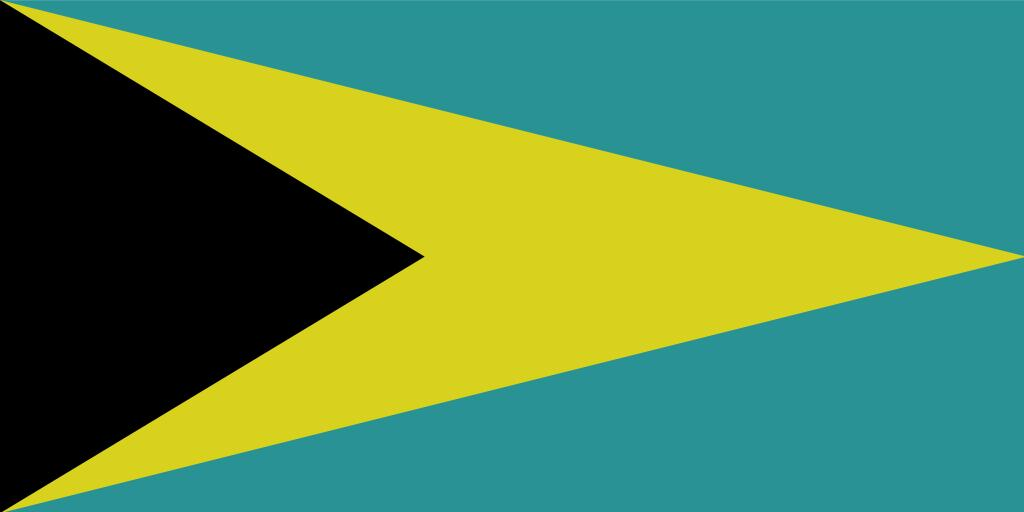
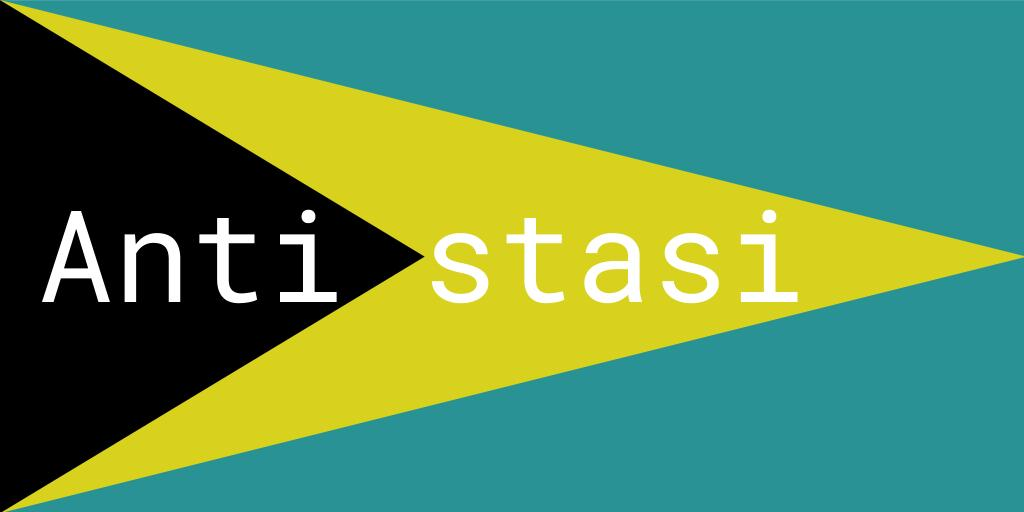
Improved packaging

Changed region(s): [[0.4062, 0.4062, 0.7812, 0.5938], [0.0312, 0.4062, 0.3438, 0.5938]]

diff --git a/README.md b/README.md
@@ -1,4 +1,6 @@
-# Antistasi by Golias
+# Golias' Antistasi
+
+![Main image](Antistasi/pic.jpg)
 
 This is a modified version of Antistasi scenario for ARMA 3 that deals with some of the issues of the original version.
 
